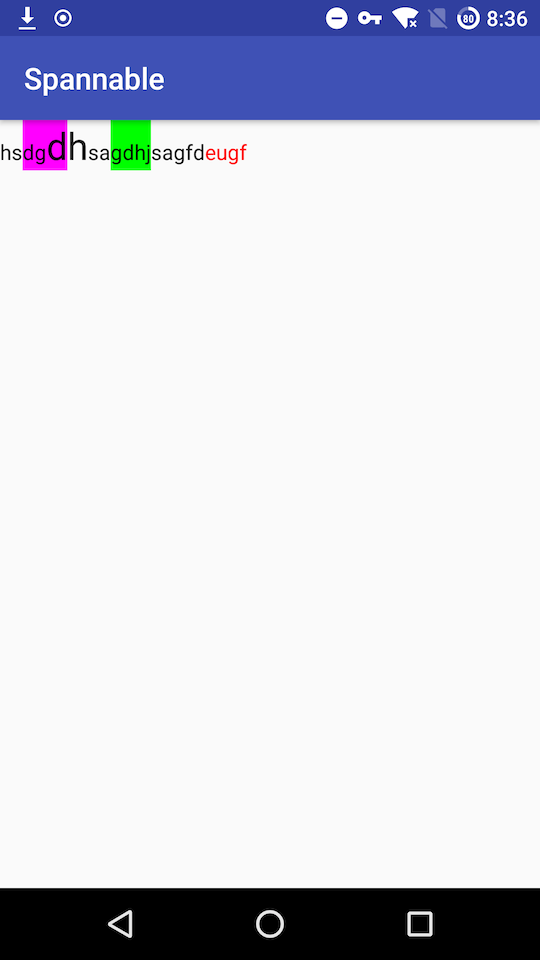
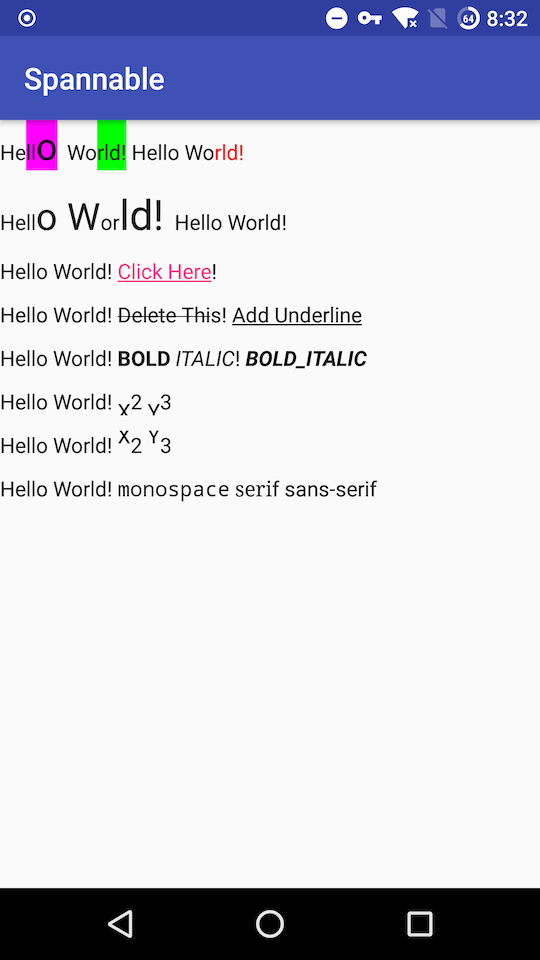
publish 0.9.2; add TypefaceSpan support

diff --git a/lib/src/main/java/com/jiakaiyang/lib/SpanConfig.java b/lib/src/main/java/com/jiakaiyang/lib/SpanConfig.java
@@ -10,6 +10,7 @@ import android.text.style.StrikethroughSpan;
 import android.text.style.StyleSpan;
 import android.text.style.SubscriptSpan;
 import android.text.style.SuperscriptSpan;
+import android.text.style.TypefaceSpan;
 import android.text.style.URLSpan;
 import android.text.style.UnderlineSpan;
 import android.view.View;
@@ -52,6 +53,10 @@ public class SpanConfig {
 
     // just for StyleSpan
     private int style;
+
+
+    // just for TypefaceSpan
+    private String typefaceFamily;
 
     private SpanConfig() {
     }
@@ -98,6 +103,8 @@ public class SpanConfig {
             spanConfig.setUrl(strings[4]);
         } else if (type.equals(StyleSpan.class)) {
             spanConfig.setStyle(parseInt(strings[4]));
+        } else if (type.equals(TypefaceSpan.class)) {
+            spanConfig.setTypefaceFamily(strings[4]);
         }
 
         return spanConfig;
@@ -338,6 +345,26 @@ public class SpanConfig {
     }
 
 
+    /**
+     * create TypefaceSpan configs
+     *
+     * @param srcConfig
+     * @return
+     */
+    public static List<SpanConfig> createTypefaceConfigs(String srcConfig) {
+        String[] srcList = createSrcList(srcConfig);
+        List<SpanConfig> result = new ArrayList<>();
+        for (String src : srcList) {
+            final SpanConfig spanConfig = createInstance(src, TypefaceSpan.class);
+            TypefaceSpan span = new TypefaceSpan(spanConfig.getTypefaceFamily());
+            spanConfig.setSpan(span);
+            result.add(spanConfig);
+        }
+
+        return result;
+    }
+
+
     private static String[] createSrcList(String srcConfig) {
         checkArgNotNull(srcConfig);
         return srcConfig.split(GROUP_VIDIER);
@@ -485,5 +512,13 @@ public class SpanConfig {
 
     public void setStyle(int style) {
         this.style = style;
+    }
+
+    public String getTypefaceFamily() {
+        return typefaceFamily;
+    }
+
+    public void setTypefaceFamily(String typefaceFamily) {
+        this.typefaceFamily = typefaceFamily;
     }
 }

diff --git a/lib/src/main/java/com/jiakaiyang/lib/SpannableTextView.java b/lib/src/main/java/com/jiakaiyang/lib/SpannableTextView.java
@@ -15,6 +15,7 @@ import android.text.style.StrikethroughSpan;
 import android.text.style.StyleSpan;
 import android.text.style.SubscriptSpan;
 import android.text.style.SuperscriptSpan;
+import android.text.style.TypefaceSpan;
 import android.text.style.URLSpan;
 import android.text.style.UnderlineSpan;
 import android.util.AttributeSet;
@@ -143,6 +144,13 @@ public class SpannableTextView extends TextView {
         if (superscriptSrc != null) {
             List<SpanConfig> superscriptConfig = SpanConfig.createSuperscriptConfigs(superscriptSrc);
             mSpans.put(SuperscriptSpan.class, superscriptConfig);
+        }
+
+
+        String typefaceSrc = typedArray.getString(R.styleable.SpannableTextView_addTypefaceSpan);
+        if (typefaceSrc != null) {
+            List<SpanConfig> typefaceConfig = SpanConfig.createTypefaceConfigs(typefaceSrc);
+            mSpans.put(TypefaceSpan.class, typefaceConfig);
         }
 
         typedArray.recycle();

diff --git a/README.md b/README.md
@@ -45,15 +45,26 @@ Spannable TextView for android, implements SpannableString in xml layout file.
 ### Support Spans
 
 1. BackgroundColorSpan
+
 2. ForegroundColorSpan
+
 3. AbsoluteSizeSpan
+
 4. RelativeSizeSpan
+
 5. StrikethroughSpan
+
 6. UnderlineSpan
+
 7. StyleSpan
+
 8. SubscriptSpan
+
 9. SuperscriptSpan
 
+10. TypefaceSpan
+
+    
 
 
 
@@ -90,6 +101,23 @@ Multi spans attires is split by "/", the args will be used to create Span instan
 #### 2. Extra Data for Every Support Span
 
 
+
+
+
+### Change Log
+
+#### 0.9.2
+
+1. Add Some other Spans support, such as StrikethroughSpan,StyleSpan,UnderlineSpan etc.
+2. This is a stable version.
+
+
+
+#### 0.9.1
+
+1. Add very base Spans support, like BackgroundSpan,ForegroundSpan.
+
+   .
 
 ### TODO
 
